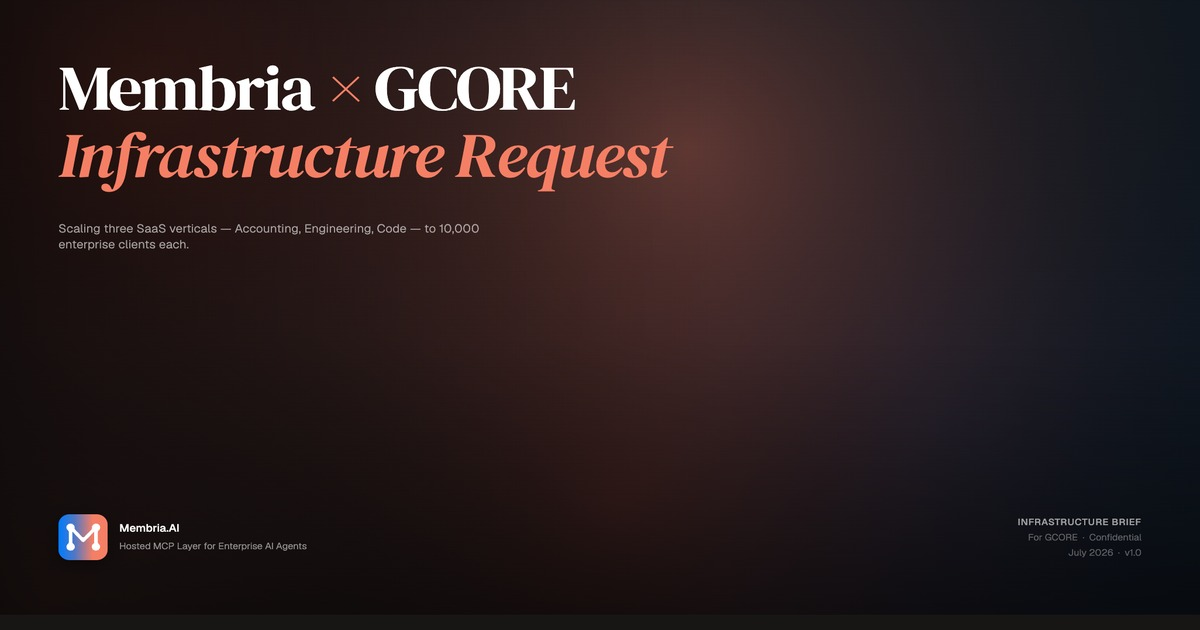
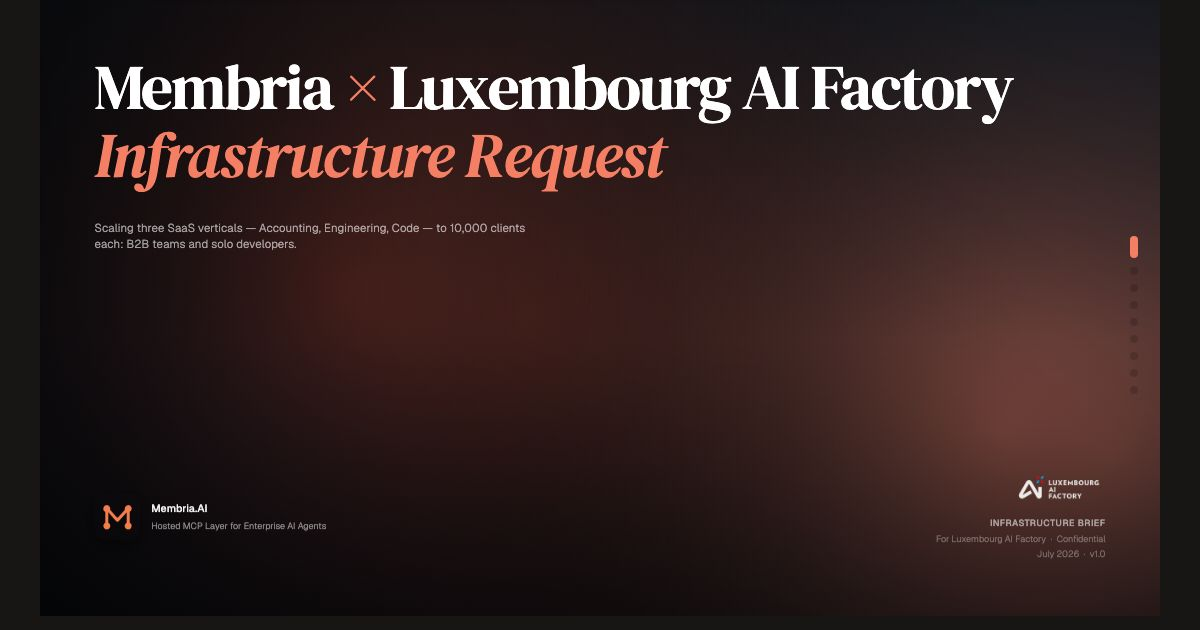
Add keyboard arrow-key navigation; regenerate infra.html OG image
- membria-deck.html, bankos-deck.html, infra.html: ArrowDown/Up, PageDown/Up,
  Space now navigate between slides
- og-infra.jpg: regenerated to reflect current cover slide content

diff --git a/membria-deck.html b/membria-deck.html
@@ -961,6 +961,26 @@ slides.forEach(s => io.observe(s));
 frameEl.addEventListener('scroll', onScroll, { passive: true });
 onScroll();
 
+function currentSlideIndex() {
+  const frameRect = frameEl.getBoundingClientRect();
+  let active = 0;
+  slides.forEach((s, i) => {
+    const rect = s.getBoundingClientRect();
+    if (rect.top - frameRect.top <= frameEl.clientHeight * 0.5) active = i;
+  });
+  return active;
+}
+
+document.addEventListener('keydown', e => {
+  if (e.target instanceof Element && e.target.closest('input, textarea, [contenteditable]')) return;
+  const goDown = ['ArrowDown', 'PageDown', ' '].includes(e.key);
+  const goUp = ['ArrowUp', 'PageUp'].includes(e.key);
+  if (!goDown && !goUp) return;
+  e.preventDefault();
+  const next = currentSlideIndex() + (goDown ? 1 : -1);
+  if (next >= 0 && next < slides.length) slides[next].scrollIntoView({behavior:'smooth'});
+});
+
 // ── Portrait overlay (mobile) ──────────────────────
 (function() {
   const overlay = document.getElementById('portrait-overlay');

diff --git a/infra.html b/infra.html
@@ -854,6 +854,26 @@ slides.forEach(s => io.observe(s));
 frameEl.addEventListener('scroll', onScroll, { passive: true });
 onScroll();
 
+function currentSlideIndex() {
+  const frameRect = frameEl.getBoundingClientRect();
+  let active = 0;
+  slides.forEach((s, i) => {
+    const rect = s.getBoundingClientRect();
+    if (rect.top - frameRect.top <= frameEl.clientHeight * 0.5) active = i;
+  });
+  return active;
+}
+
+document.addEventListener('keydown', e => {
+  if (e.target instanceof Element && e.target.closest('input, textarea, [contenteditable]')) return;
+  const goDown = ['ArrowDown', 'PageDown', ' '].includes(e.key);
+  const goUp = ['ArrowUp', 'PageUp'].includes(e.key);
+  if (!goDown && !goUp) return;
+  e.preventDefault();
+  const next = currentSlideIndex() + (goDown ? 1 : -1);
+  if (next >= 0 && next < slides.length) slides[next].scrollIntoView({behavior:'smooth'});
+});
+
 // ── Cover animated background ──────────────────────
 (function() {
   const canvas = document.getElementById('s1-canvas');

diff --git a/bankos-deck.html b/bankos-deck.html
@@ -652,6 +652,26 @@ slides.forEach(s => io.observe(s));
 
 frameEl.addEventListener('scroll', onScroll, { passive: true });
 onScroll();
+
+function currentSlideIndex() {
+  const frameRect = frameEl.getBoundingClientRect();
+  let active = 0;
+  slides.forEach((s, i) => {
+    const rect = s.getBoundingClientRect();
+    if (rect.top - frameRect.top <= frameEl.clientHeight * 0.5) active = i;
+  });
+  return active;
+}
+
+document.addEventListener('keydown', e => {
+  if (e.target instanceof Element && e.target.closest('input, textarea, [contenteditable]')) return;
+  const goDown = ['ArrowDown', 'PageDown', ' '].includes(e.key);
+  const goUp = ['ArrowUp', 'PageUp'].includes(e.key);
+  if (!goDown && !goUp) return;
+  e.preventDefault();
+  const next = currentSlideIndex() + (goDown ? 1 : -1);
+  if (next >= 0 && next < slides.length) slides[next].scrollIntoView({behavior:'smooth'});
+});
 </script>
 
 </body>
